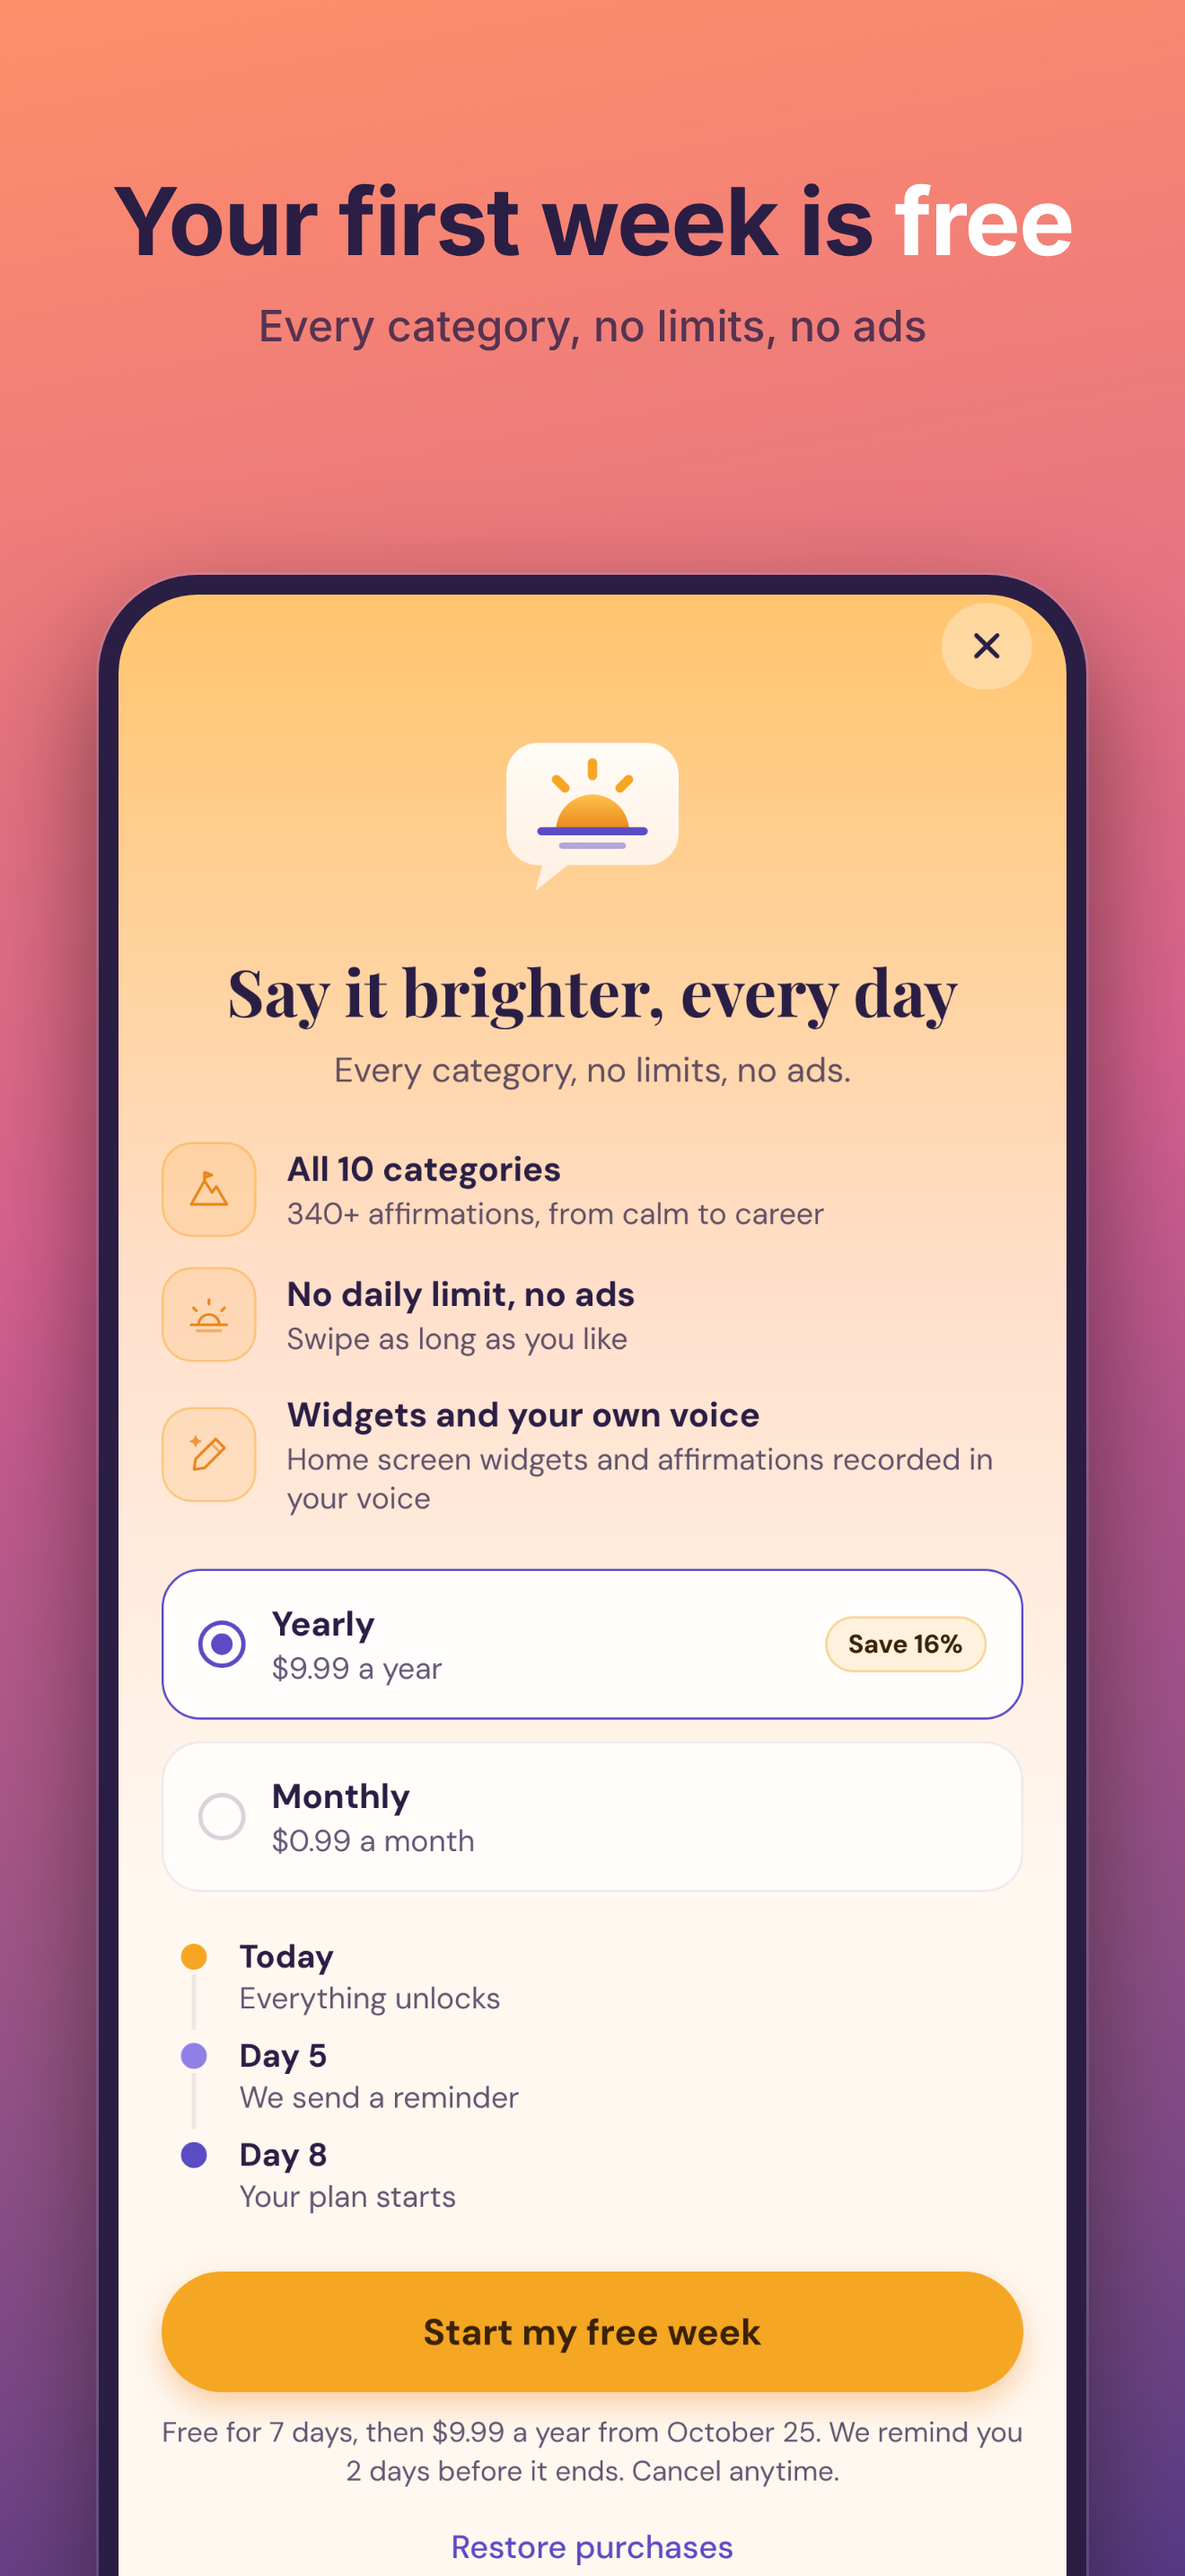
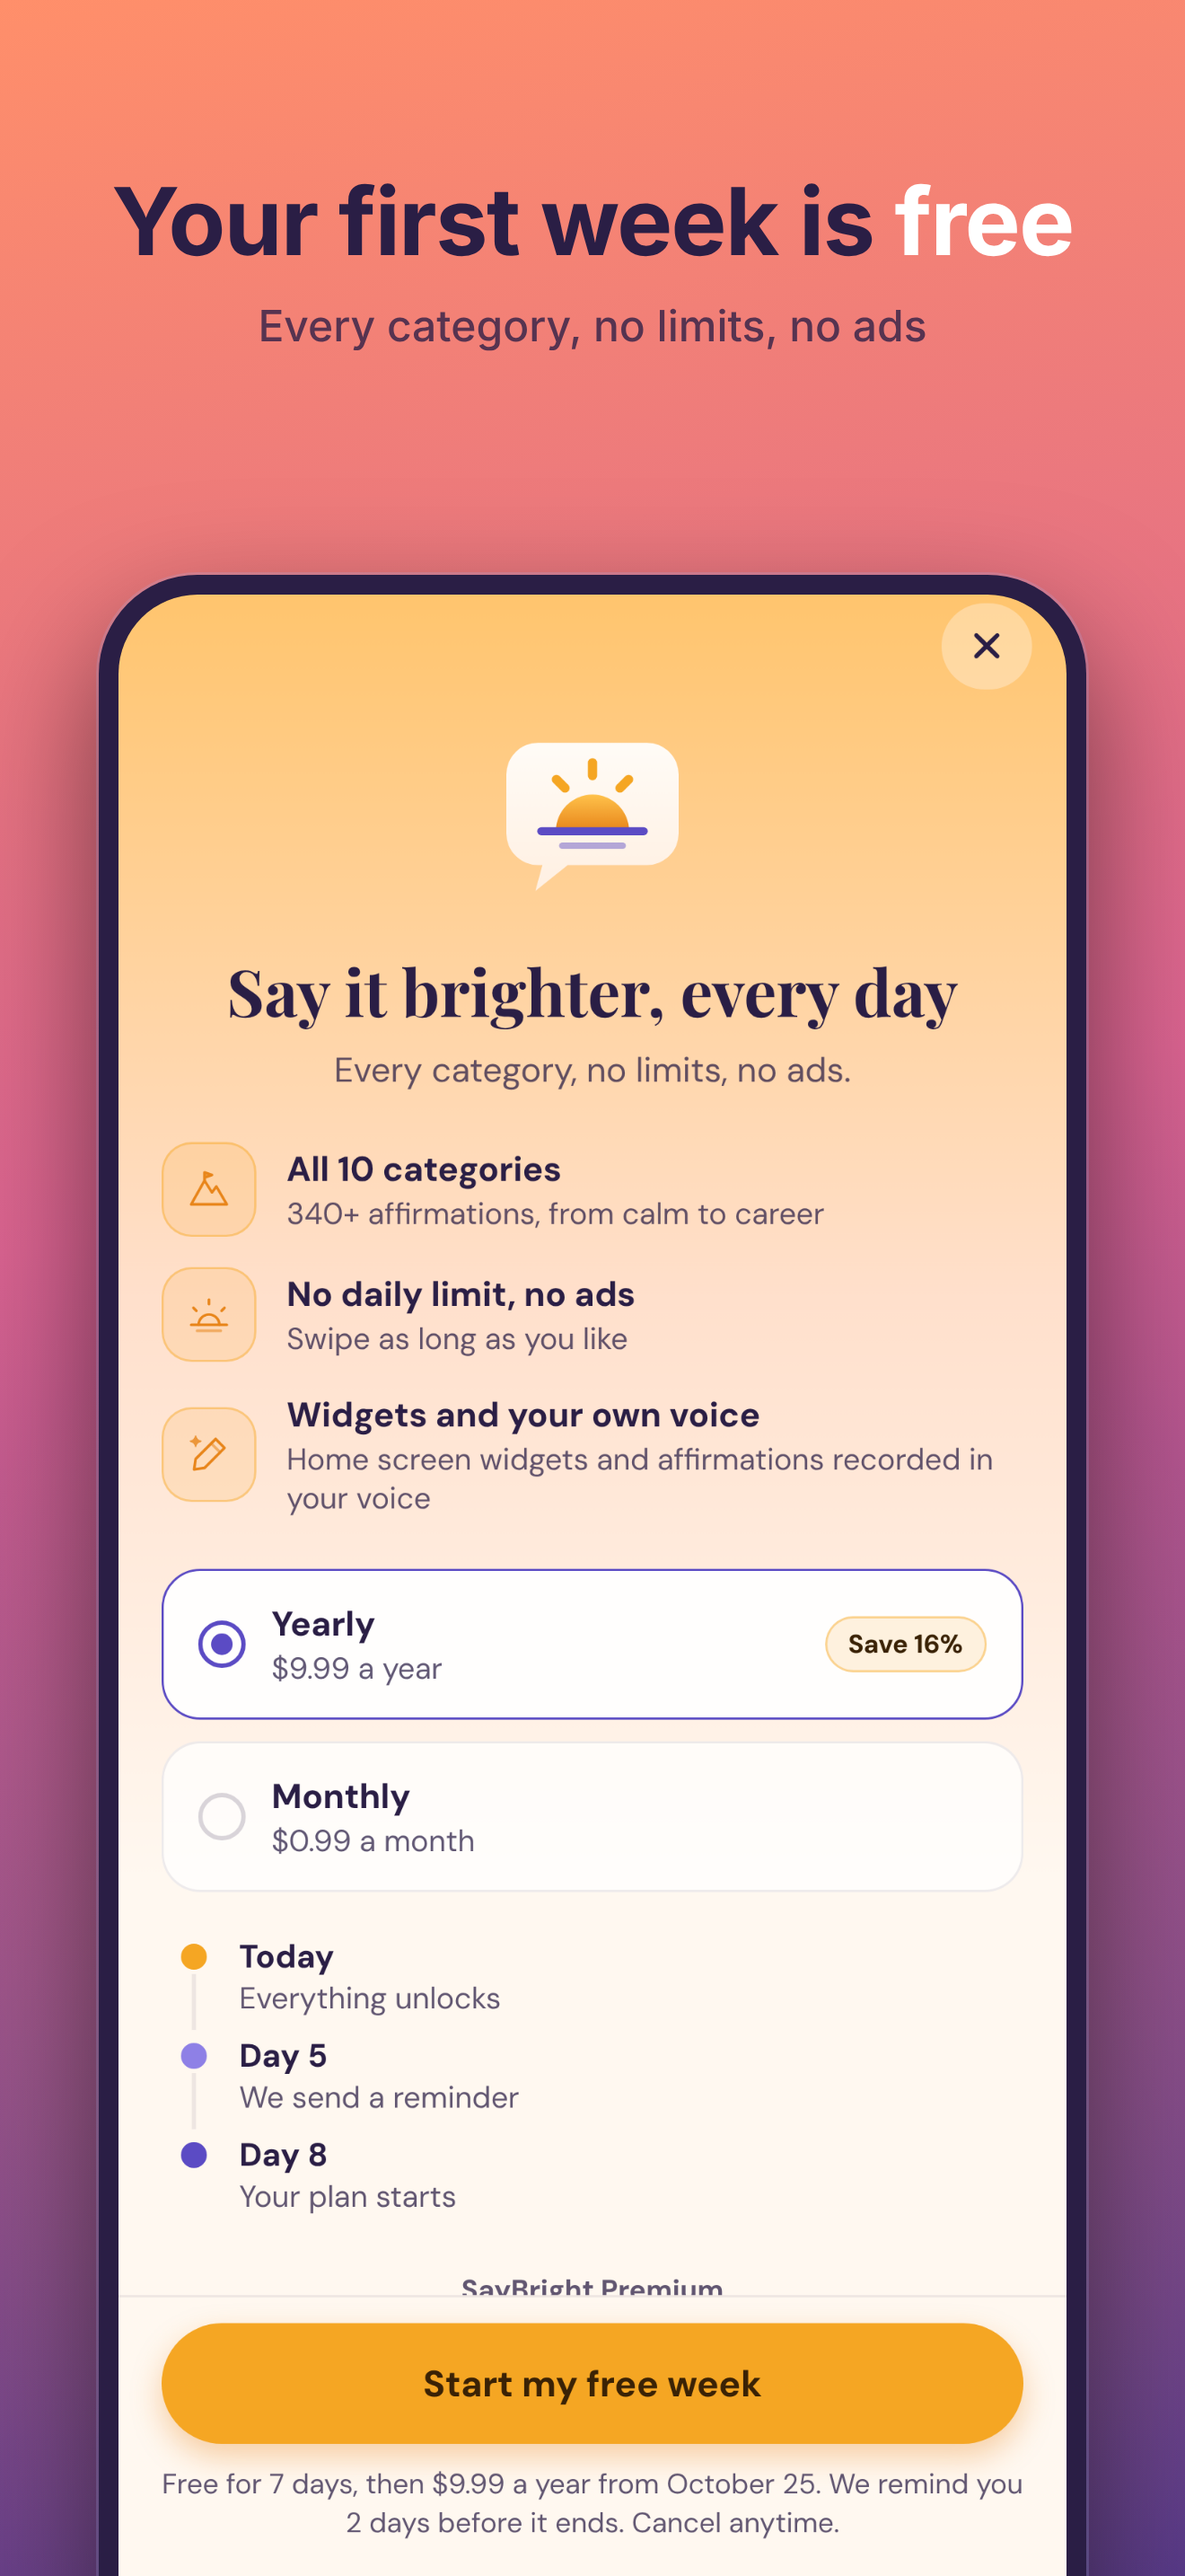
Design review fixes: pinned paywall button, readable evening card, card under the hero, reminder time on the end card, sentence case in Settings, custom art on My Affirmations

Changed region(s): [[0.1242, 0.8689, 0.8697, 0.993]]

diff --git a/app/(tabs)/index.tsx b/app/(tabs)/index.tsx
@@ -75,10 +75,11 @@ export default function TodayScreen() {
   const sky = SKIES[period];
   const textColor = sky.ink;
   const subtleTextColor = sky.inkSecondary;
-  const { width: winWidth } = useWindowDimensions();
+  const { width: winWidth, height: winHeight } = useWindowDimensions();
   const contentWidth = Math.min(winWidth, MAX_CONTENT_WIDTH);
   const swipeThreshold = contentWidth * 0.22;
   const finishedRecorded = useRef(false);
+  const [reminderLabel, setReminderLabel] = useState<string | null>(null);
 
   const translateX = useSharedValue(0);
   const opacity = useSharedValue(0);
@@ -114,6 +115,12 @@ export default function TodayScreen() {
       setPool(resolvedPool);
       setCurrentIndex(0);
       setFavorites(data.favorites);
+      if (data.preferences.reminderEnabled) {
+        const [hh, mm] = data.preferences.reminderTime.split(':').map(Number);
+        const d = new Date();
+        d.setHours(hh || 8, mm || 0, 0, 0);
+        setReminderLabel(d.toLocaleTimeString(undefined, { hour: 'numeric', minute: '2-digit' }));
+      }
       setLoading(false);
       opacity.value = withTiming(1, { duration: 300, easing: Easing.out(Easing.quad) });
       scale.value = withTiming(1, { duration: 300, easing: Easing.out(Easing.quad) });
@@ -433,7 +440,7 @@ export default function TodayScreen() {
           </View>
 
           <View style={[styles.hero, { width: winWidth, marginLeft: -(winWidth - contentWidth) / 2 - 20 }]} pointerEvents="none">
-            <SunriseHero width={winWidth} period={period} height={Math.min(170, winWidth * 0.4)} />
+            <SunriseHero width={winWidth} period={period} height={Math.min(240, Math.max(140, winHeight * 0.22))} />
           </View>
 
           <View style={styles.cardWrapper}>
@@ -444,6 +451,7 @@ export default function TodayScreen() {
                 <Animated.View style={[styles.card, cardStyleStatic, cardStyle]}>
                   {isPaywallCard ? (
                     <EndOfDayCard
+                      reminderTime={reminderLabel}
                       textColor={textColor}
                       subtleTextColor={subtleTextColor}
                       onSeePlans={() => router.push('/paywall?source=daily_limit')}
@@ -534,13 +542,24 @@ export default function TodayScreen() {
 }
 
 /** Closes the free daily set: the Premium entry is part of the layout. */
-function EndOfDayCard({ textColor, subtleTextColor, onSeePlans }: { textColor: string; subtleTextColor: string; onSeePlans: () => void }) {
+function EndOfDayCard({
+  reminderTime,
+  textColor,
+  subtleTextColor,
+  onSeePlans,
+}: {
+  reminderTime: string | null;
+  textColor: string;
+  subtleTextColor: string;
+  onSeePlans: () => void;
+}) {
   return (
     <View style={styles.endInner}>
       <BrightMark size={84} />
       <Text style={[styles.endTitle, { color: textColor }]}>{"That's your five for today"}</Text>
       <Text style={[styles.endBody, { color: subtleTextColor }]}>
-        Five new ones arrive tomorrow. Or keep going now with every category and no limit.
+        {reminderTime ? `Five new ones tomorrow at ${reminderTime}.` : 'Five new ones arrive tomorrow.'} Or keep going now with every
+        category and no limit.
       </Text>
       <Tap onPress={onSeePlans} style={styles.endCta} pressedStyle={styles.endCtaPressed} accessibilityRole="button">
         <Ionicons name="sparkles" size={16} color={C.onGold} />
@@ -563,7 +582,7 @@ const styles = StyleSheet.create({
   chipNight: { backgroundColor: C.surfaceOnSky, borderColor: C.surfaceOnSkyStrong },
   streakText: { fontFamily: FONTS.bodyBold, fontSize: 15 },
   hero: { alignItems: 'center', marginTop: 2 },
-  cardWrapper: { flex: 1, justifyContent: 'center', paddingBottom: 12 },
+  cardWrapper: { flex: 1, justifyContent: 'flex-start', paddingTop: 20, paddingBottom: 12 },
   card: { borderRadius: RADIUS.lg, padding: 26, minHeight: 300, justifyContent: 'space-between', borderWidth: 1 },
   cardDay: {
     backgroundColor: C.surface,
@@ -574,7 +593,7 @@ const styles = StyleSheet.create({
     shadowOffset: { width: 0, height: 10 },
     elevation: 3,
   },
-  cardNight: { backgroundColor: C.surfaceOnSky, borderColor: C.surfaceOnSkyStrong },
+  cardNight: { backgroundColor: C.surfaceOnDusk, borderColor: C.surfaceOnSkyStrong },
   categoryRow: { flexDirection: 'row', alignItems: 'center', gap: 8, marginBottom: 18 },
   categoryName: { fontFamily: FONTS.bodyMedium, fontSize: 14 },
   affirmation: { fontFamily: FONTS.displayBold, fontSize: 27, lineHeight: 36 },

diff --git a/src/components/paywall/PaywallView.tsx b/src/components/paywall/PaywallView.tsx
@@ -110,27 +110,33 @@ export default function PaywallView({ source, onDone, embedded = false }: { sour
                   </View>
                 ) : null}
 
-                <Tap
-                  onPress={c.handlePurchase}
-                  disabled={c.purchasing}
-                  style={[styles.cta, c.purchasing && styles.ctaBusy]}
-                  pressedStyle={styles.ctaPressed}
-                  accessibilityRole="button"
-                >
-                  {c.purchasing ? <ActivityIndicator color={C.onGold} /> : <Text style={styles.ctaText}>{c.ctaLabel}</Text>}
-                </Tap>
-                {c.trialTerms ? <Text style={styles.terms}>{c.trialTerms}</Text> : null}
-                {c.notice ? <Text style={styles.notice}>{c.notice}</Text> : null}
-
-                <Tap onPress={c.handleRestore} disabled={c.restoring} style={styles.restore} accessibilityRole="button">
-                  <Text style={styles.restoreText}>{c.restoring ? 'Restoring' : 'Restore purchases'}</Text>
-                </Tap>
               </>
             )}
 
             <LegalSection monthlyPrice={c.monthlyPrice} annualPrice={c.annualPrice} showAnnual={c.hasAnnual} showTrial={c.showTrial} />
           </View>
         </ScrollView>
+        {!c.loading && !c.error ? (
+          <SafeAreaView edges={['bottom']} style={styles.footer}>
+            <View style={styles.inner}>
+                      <Tap
+                        onPress={c.handlePurchase}
+                        disabled={c.purchasing}
+                        style={[styles.cta, c.purchasing && styles.ctaBusy]}
+                        pressedStyle={styles.ctaPressed}
+                        accessibilityRole="button"
+                      >
+                        {c.purchasing ? <ActivityIndicator color={C.onGold} /> : <Text style={styles.ctaText}>{c.ctaLabel}</Text>}
+                      </Tap>
+                      {c.trialTerms ? <Text style={styles.terms}>{c.trialTerms}</Text> : null}
+                      {c.notice ? <Text style={styles.notice}>{c.notice}</Text> : null}
+      
+                      <Tap onPress={c.handleRestore} disabled={c.restoring} style={styles.restore} accessibilityRole="button">
+                        <Text style={styles.restoreText}>{c.restoring ? 'Restoring' : 'Restore purchases'}</Text>
+                      </Tap>
+            </View>
+          </SafeAreaView>
+        ) : null}
       </SafeAreaView>
     </View>
   );
@@ -223,7 +229,8 @@ const styles = StyleSheet.create({
     backgroundColor: C.surfaceOnSkyStrong,
   },
   notNow: { fontFamily: FONTS.bodyMedium, fontSize: 15, color: C.text },
-  scroll: { paddingHorizontal: 20, paddingBottom: 40 },
+  scroll: { paddingHorizontal: 20, paddingBottom: 24 },
+  footer: { paddingHorizontal: 20, paddingTop: 8, paddingBottom: 4, backgroundColor: C.bg0, borderTopWidth: 1, borderTopColor: C.border },
   inner: { width: '100%', maxWidth: MAX_CONTENT_WIDTH, alignSelf: 'center' },
   hero: { alignItems: 'center', marginTop: -8 },
   title: { fontFamily: FONTS.displayBold, fontSize: 30, lineHeight: 36, color: C.text, textAlign: 'center', marginTop: 2 },
@@ -285,7 +292,7 @@ const styles = StyleSheet.create({
   stepTitle: { fontFamily: FONTS.bodyBold, fontSize: 15, color: C.text },
   stepBody: { fontFamily: FONTS.bodyRegular, fontSize: 14, color: C.textSecondary },
   cta: {
-    marginTop: 18,
+    marginTop: 4,
     height: 56,
     borderRadius: 28,
     backgroundColor: C.gold,

diff --git a/app/(tabs)/settings.tsx b/app/(tabs)/settings.tsx
@@ -288,7 +288,7 @@ export default function SettingsScreen() {
           <View style={styles.divider} />
           <Pressable onPress={handleTimeRowPress} style={styles.row}>
             <View style={styles.rowMain}>
-              <Text style={styles.rowTitle}>Reminder Time</Text>
+              <Text style={styles.rowTitle}>Reminder time</Text>
               <Text style={styles.rowSubtitle}>
                 {formatTimeDisplay(reminderTime)}
               </Text>
@@ -324,8 +324,8 @@ export default function SettingsScreen() {
             <View style={styles.rowMain}>
               <Text style={styles.rowTitle}>
                 {isPremium
-                  ? 'Add Home Screen Widget'
-                  : 'Home Screen Widgets'}
+                  ? 'Add a home screen widget'
+                  : 'Home screen widgets'}
               </Text>
               <Text style={styles.rowSubtitle}>
                 {isPremium
@@ -350,7 +350,7 @@ export default function SettingsScreen() {
           <View style={styles.divider} />
           <Pressable onPress={onRecordingsPress} style={styles.row}>
             <View style={styles.rowMain}>
-              <Text style={styles.rowTitle}>My Recordings</Text>
+              <Text style={styles.rowTitle}>My recordings</Text>
               <Text style={styles.rowSubtitle}>
                 {!isPremium
                   ? 'Available with Premium.'
@@ -406,7 +406,7 @@ export default function SettingsScreen() {
               style={styles.rowIcon}
             />
             <View style={styles.rowMain}>
-              <Text style={styles.rowTitle}>Restore Purchases</Text>
+              <Text style={styles.rowTitle}>Restore purchases</Text>
             </View>
             {restoring ? (
               <ActivityIndicator color={COLORS.textSecondary} />
@@ -600,7 +600,7 @@ function RecordingsListModal({
       <SafeAreaView style={styles.modalContainer} edges={['top']}>
         <View style={styles.modalHeader}>
           <View style={{ width: 60 }} />
-          <Text style={styles.modalTitle}>My Recordings</Text>
+          <Text style={styles.modalTitle}>My recordings</Text>
           <Pressable onPress={close} hitSlop={12}>
             <Text style={styles.modalCancel}>Done</Text>
           </Pressable>

diff --git a/app/my-affirmations.tsx b/app/my-affirmations.tsx
@@ -29,6 +29,8 @@ import {
 } from '../src/services/storage';
 import { useShare } from '../src/context/ShareContext';
 import { trackEvent } from '../src/services/analytics';
+import CategoryIcon from '../src/components/art/CategoryIcon';
+import { C } from '../src/theme/colors';
 
 export default function MyAffirmationsScreen() {
   const router = useRouter();
@@ -187,7 +189,9 @@ export default function MyAffirmationsScreen() {
 
         {loaded && items.length === 0 ? (
           <View style={styles.empty}>
-            <Text style={styles.emptyEmoji}>✍</Text>
+            <View style={styles.emptyArt}>
+              <CategoryIcon name="creativity" size={40} color={C.accent} />
+            </View>
             <Text style={styles.emptyTitle}>Write your own</Text>
             <Text style={styles.emptySubtitle}>
               The words that move you most are often your own. Write an
@@ -281,7 +285,7 @@ const styles = StyleSheet.create({
     paddingHorizontal: SPACING.lg,
     paddingVertical: SPACING.md,
   },
-  rowEditing: { backgroundColor: '#FFF1DC' },
+  rowEditing: { backgroundColor: C.bg1 },
   rowText: {
     flex: 1,
     marginRight: SPACING.md,
@@ -314,7 +318,15 @@ const styles = StyleSheet.create({
     paddingHorizontal: SPACING.xl,
     paddingBottom: SPACING.xxl,
   },
-  emptyEmoji: { fontSize: 64, marginBottom: SPACING.md },
+  emptyArt: {
+    width: 88,
+    height: 88,
+    borderRadius: 28,
+    backgroundColor: C.accentDim,
+    alignItems: 'center',
+    justifyContent: 'center',
+    marginBottom: SPACING.md,
+  },
   emptyTitle: {
     fontFamily: FONTS.displayBold,
     fontSize: FONT_SIZES.title,

diff --git a/src/components/ShareCard.tsx b/src/components/ShareCard.tsx
@@ -2,6 +2,7 @@ import { forwardRef } from 'react';
 import { StyleSheet, Text, View } from 'react-native';
 import { LinearGradient } from 'expo-linear-gradient';
 import { COLORS, FONTS } from '../constants/theme';
+import { C } from '../theme/colors';
 import { Affirmation } from '../data/affirmations';
 import { getCategoryById } from '../utils/affirmations';
 import { TimeGradient } from '../utils/time';
@@ -24,7 +25,7 @@ export const ShareCard = forwardRef<View, ShareCardProps>(function ShareCard(
     : undefined;
   const text = affirmation?.text ?? '';
   const isLight = gradient.statusBar === 'dark';
-  const primaryText = isLight ? '#1A1A2E' : COLORS.white;
+  const primaryText = isLight ? C.text : COLORS.white;
   const subtleText = isLight
     ? 'rgba(26, 26, 46, 0.65)'
     : 'rgba(255, 255, 255, 0.85)';

diff --git a/src/components/Confetti.tsx b/src/components/Confetti.tsx
@@ -1,5 +1,6 @@
 import { useEffect, useMemo } from 'react';
 import { Dimensions, StyleSheet, View } from 'react-native';
+import { C } from '../theme/colors';
 import Animated, {
   Easing,
   useAnimatedStyle,
@@ -10,14 +11,7 @@ import Animated, {
 
 const { width: SCREEN_W, height: SCREEN_H } = Dimensions.get('window');
 
-const COLORS = [
-  '#F5A623',
-  '#FF6B6B',
-  '#B8A9E8',
-  '#4CAF50',
-  '#FFD700',
-  '#2196F3',
-];
+const COLORS = [C.gold, C.dawnMid, C.accentLight, C.success, C.goldLight, C.accent];
 
 interface Particle {
   key: number;

diff --git a/src/theme/colors.ts b/src/theme/colors.ts
@@ -30,6 +30,8 @@ export const C = {
   surfaceStrong: 'rgba(255, 255, 255, 0.92)',
   surfaceOnSky: 'rgba(255, 255, 255, 0.2)',
   surfaceOnSkyStrong: 'rgba(255, 255, 255, 0.32)',
+  /** Card glass on the evening and night skies, dark enough for white text */
+  surfaceOnDusk: 'rgba(42, 30, 69, 0.42)',
   border: 'rgba(42, 30, 69, 0.08)',
   borderStrong: 'rgba(42, 30, 69, 0.18)',
   borderOnSky: 'rgba(255, 255, 255, 0.45)',
